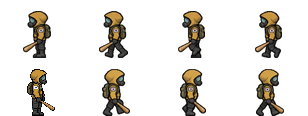
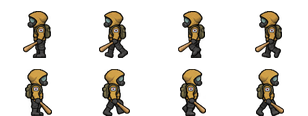
오른쪽 대기와 공격 명암 통일 및 방망이 궤적 추가

Changed region(s): [[0.0584, 0.5948, 0.1753, 1.0]]

diff --git a/src/bat.py b/src/bat.py
@@ -16,6 +16,11 @@ BAT_REACH = 40
 BAT_DEPTH_REACH = 20
 BAT_ARC = pi / 4
 CRATE_POSITION = (432, 86)
+# Offsets from the player to the right-facing bat tip and its trail.
+SWING_TRAIL = {
+    2: ((27, 16), (31, 18), (32, 22), (30, 27)),
+    3: ((-20, 7), (-24, 8), (-26, 11), (-26, 15)),
+}
 
 
 class BatSwing:
@@ -51,6 +56,18 @@ class BatSwing:
         if self.elapsed < BAT_RECOVERY:
             return 3
         return 4
+
+    def draw_trail(self, player, camera_x):
+        trail = SWING_TRAIL.get(self.frame)
+        if trail is None:
+            return
+        x = player.x - camera_x
+        y = player.y
+        for index, ((x1, y1), (x2, y2)) in enumerate(zip(trail, trail[1:])):
+            start_x, end_x = x + self.dx * x1, x + self.dx * x2
+            pico2d.draw_line(start_x, y + y1, end_x, y + y2, 248 - 42 * index, 48, 50)
+            if index < 2:
+                pico2d.draw_line(start_x, y + y1 - 1, end_x, y + y2 - 1, 150, 29, 37)
 
 
 def draw_crate(x, y, broken):

diff --git a/src/main.py b/src/main.py
@@ -130,6 +130,7 @@ def draw_player(game):
     player = game.player
     if game.bat_swing is not None:
         player.draw_frame("action", game.bat_swing.frame, game.camera_x)
+        game.bat_swing.draw_trail(player, game.camera_x)
     elif game.pickup_time is not None and PICKUP_CROUCH <= game.pickup_time < PICKUP_STAND:
         player.draw_frame("action", 0, game.camera_x)
     else:

diff --git a/assets/ART_GUIDE.md b/assets/ART_GUIDE.md
@@ -6,10 +6,10 @@
 
 | 종류 | 기준 | 확인할 점 |
 | --- | --- | --- |
-| 주인공 | [기존 걷기 시트](survivor_walk.png)와 [조용히 걷기 시트](survivor_sneak_walk.png) | 황토색 후드, 청록색 렌즈, 올리브색 배낭, 짙은 회색 장비와 어두운 외곽선. 동작과 방향이 바뀌어도 장비의 모양과 색을 맞춘다. |
-| NPC | 주인공과 같은 탑뷰 각도, 도트 밀도, 명암 단계 | 체격, 옷, 소지품으로 역할을 구분한다. 관계 표시는 게임 UI에서 따로 그린다. |
+| 주인공 | [현재 좌우 걷기 시트](survivor_bat_walk_side.png)와 [좌우 조용히 걷기 시트](survivor_bat_sneak_side.png) | 황토색 후드, 청록색 렌즈, 올리브색 배낭, 짙은 회색 장비와 어두운 외곽선. 동작과 방향이 바뀌어도 장비의 모양과 색을 맞춘다. |
+| NPC | 주인공과 같은 횡스크롤 각도, 도트 밀도, 명암 단계 | 체격, 옷, 소지품으로 역할을 구분한다. 관계 표시는 게임 UI에서 따로 그린다. |
 | 바닥 아이템과 HUD 아이콘 | 현재 [필터 표시](../src/item_ui.py)와 같은 화면에서 비교 | 바닥용과 HUD용 표시 크기를 따로 정한다. 두 곳에서 같은 아이템으로 알아볼 수 있도록 핵심 실루엣을 공유한다. |
-| 배경과 소품 | [시작 방공호](shelter.png)의 탑뷰 각도와 낮은 채도 | 바닥, 벽, 통과할 수 있는 문이 구분돼야 한다. 장식이 캐릭터와 상호작용 표식을 가리지 않는지 확인한다. |
+| 배경과 소품 | [시작 방공호](shelter_side.png)의 횡스크롤 각도와 낮은 채도 | 바닥, 벽, 통과할 수 있는 문이 구분돼야 한다. 장식이 캐릭터와 상호작용 표식을 가리지 않는지 확인한다. |
 
 ## 새 리소스 제작 양식
 
@@ -32,7 +32,7 @@
 ## 적용 전 확인
 
 - [ ] 기준 이미지와 나란히 놓고 색상, 각도, 비율, 도트 크기를 비교했다.
-- [ ] 같은 조명 아래에서 일반 걷기와 조용히 걷기를 전환해 후드, 배낭, 바지의 밝기가 갑자기 달라지지 않는지 확인했다.
+- [ ] 같은 조명 아래에서 좌우 대기·일반 걷기·조용히 걷기·공격 전 프레임을 같은 조명에서 비교했다. 후드가 더 노랗게 보이면 실제 걷기 시트에서 밝은 면의 RGB를 뽑아 확인하고, 모자·방독면 크기와 발 기준점도 비교한다.
 - [ ] 걷기 주기의 두 디딤 자세를 나란히 놓고 같은 다리를 추적해, 앞에서 몸 아래를 지나 뒤로 가는지 방향별로 확인했다.
 - [ ] 실제 게임 크기에서 캐릭터, 아이템, 출입구를 알아볼 수 있다.
 - [ ] 투명 PNG의 테두리에 배경색이 남거나 일부가 잘리지 않는다.

diff --git a/assets/ANIMATION_GUIDE.md b/assets/ANIMATION_GUIDE.md
@@ -70,3 +70,6 @@ Shift 전환 때 조용히 걷기 시트가 밝아 보이는 차이를 줄이기
 - 참고 자료. [Build 41 공식 트레일러 게시물](https://projectzomboid.com/blog/news/2021/12/project-zomboid-build-41-released/), [동작 전환](https://projectzomboid.com/blog/news/2019/06/anim-transition-blog/), [공격 회수와 후속 동작](https://projectzomboid.com/blog/news/2020/07/looks-different-somehow/)
 
 - 공격 스프라이트는 기존 공격 그림을 자세 참고로만 쓰고, 오른쪽 대기 원본의 후드, 방독면, 배낭과 직사각형 태극기 패치를 외형 기준으로 삼는다. 대기·걷기·Shift 걷기와 공격 네 단계를 양쪽 모두 Pico2D에서 캡처해 비교한다. 마지막 회수 칸은 같은 방향의 대기 원본을 사용한다.
+
+- 횡스크롤 오른쪽 대기는 현재 걷기 시트와 같은 생성 원본의 정지 자세를 사용한다. 공격 도트의 밝은 황토색은 걷기 프레임의 RGB 표본에 맞춘다. 마지막 회수는 같은 방향의 실제 대기 컷을 그대로 쓴다.
+- imagegen으로 방망이 손잡이 위치를 유지하고 나무 끝을 조금 늘린 뒤 걷기 원본과 명암을 맞췄다. 빨간 선은 그림에 굽지 않고 타격·후속 자세에서만 방망이 끝 위치를 기준으로 렌더링한다. 이 시각 효과는 기존 타격 판정 거리를 바꾸지 않는다.

diff --git a/docs/DEVELOPMENT_RETROSPECTIVE.md b/docs/DEVELOPMENT_RETROSPECTIVE.md
@@ -64,3 +64,7 @@
 ### 대기에서 공격으로 바뀔 때 캐릭터 외형 확인
 
 공격의 명중과 렌더링이 정상이어도 생성 이미지에서 패치, 방독면과 후드가 달라질 수 있다. 실제 게임에서 좌우 대기, 일반·Shift 걷기, 준비, 타격, 휘두른 뒤, 회수를 같은 크기로 비교했다. 회수와 대기는 렌더링한 픽셀도 좌우 각각 일치했다.
+
+### 대기 체형과 공격 팔레트 비교
+
+앞선 검수에서 패치와 회수 픽셀 일치만 확인해 오른쪽 대기 컷과 걷기 컷의 체형 차이, 공격 중 후드가 밝고 노랗게 튀는 차이를 놓쳤다. 이번에는 걷기와 같은 원본의 정지 컷을 적용하고 밝은 후드 픽셀을 걷기 기준으로 맞췄다. Pico2D로 양쪽 대기·걷기·조용히 걷기·공격 네 자세를 캡처하고, 회수와 대기의 픽셀 일치 및 빨간 궤적의 타격·후속 위치를 확인했다.
